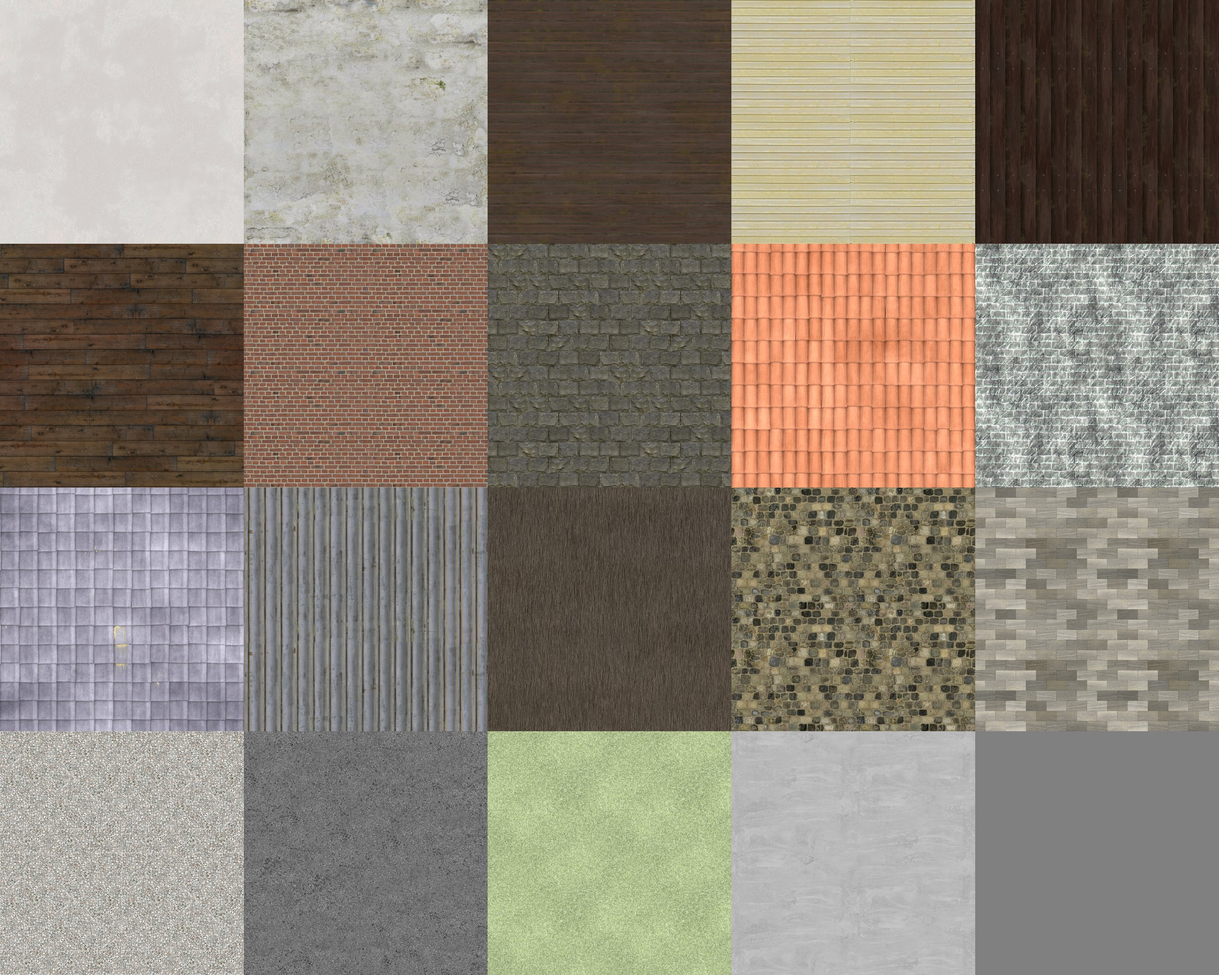
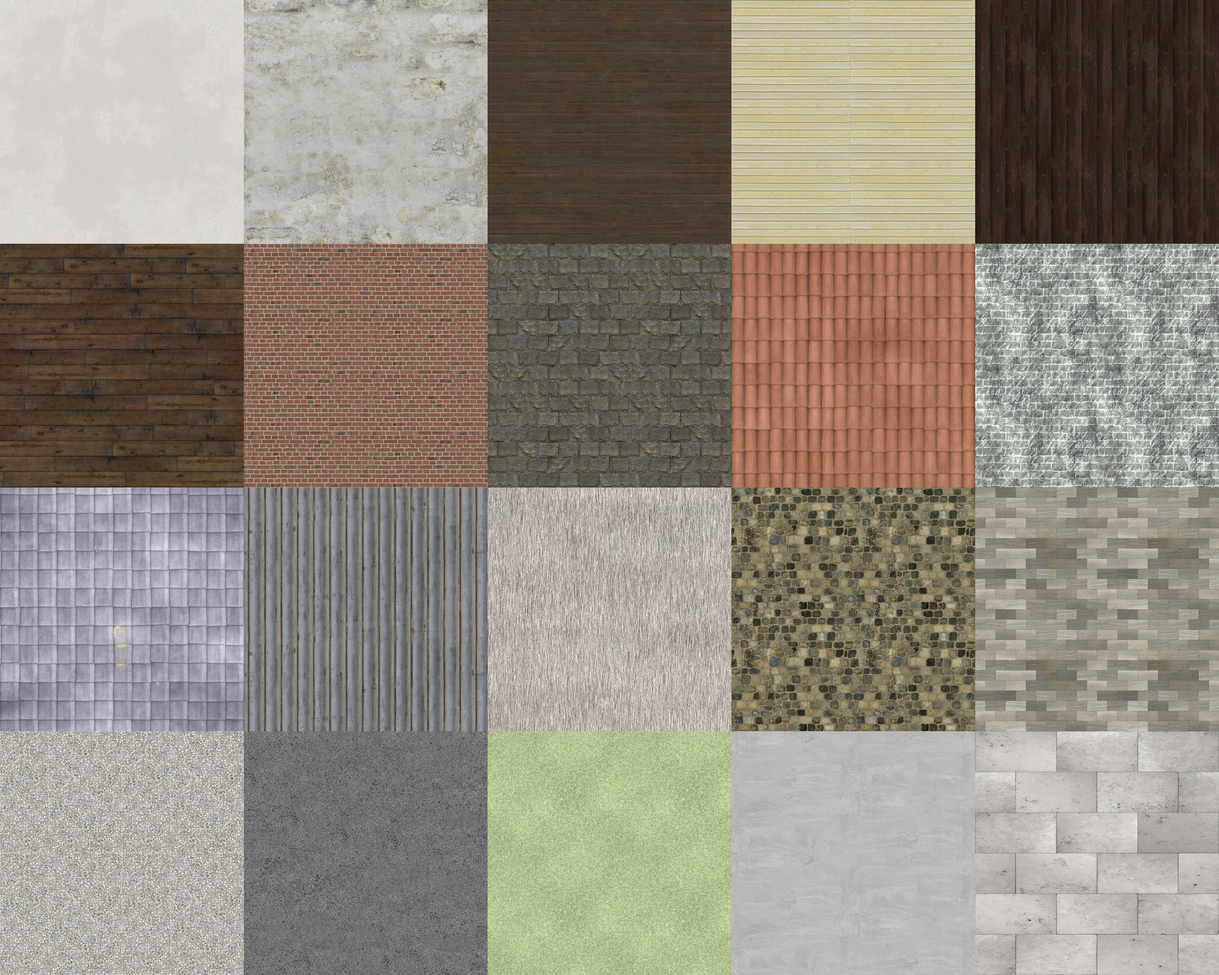
Town materials: pale thatch, terracotta clay tiles, a cut-stone (ashlar) tile in the 20th slot
The thatch photo is normalised to a pale grey so the straw tint decides its colour (it stayed near-black). The clay
tile is toned down from salmon to weathered terracotta. Slot 19: ambientCG Tiles139 (CC0), cropped and staggered
into 1 m x 0.5 m blocks in running bond, near white for per-building tints. The bake script takes per-material
options (lum, sat, crop, stagger); the other 17 tiles bake byte-identical to before.

Changed region(s): [[0.375, 0.25, 0.8125, 0.75], [0.7812, 0.75, 1.0, 1.0]]

diff --git a/tools/towns/bake_materials.py b/tools/towns/bake_materials.py
@@ -16,8 +16,12 @@ from PIL import Image, ImageChops, ImageStat
 SRC = sys.argv[1]
 OUT = os.path.join(os.path.dirname(__file__), '..', '..', 'tex', 'towns')
 T, COLS, ROWS = 512, 5, 4
-# (asset id, repeats across the 3 m tile, repeats down, rotate 90 deg[, mean luminance to normalise to: tinted
-# materials (roofs, lawn) are brought to a mid grey so the per-building tint colour decides the final colour)]
+# (asset id, repeats across the 3 m tile, repeats down, rotate 90 deg[, options]). Options:
+#   lum: mean luminance to normalise to. Tinted materials (roofs, thatch, lawn, cut stone) are brought to a mid or light
+#        grey so the per-building tint colour decides the final colour
+#   sat: keep only this fraction of the saturation
+#   crop: (x0, y0, x1, y1) of the 1K source to use (must tile on its own)
+#   stagger: (courses, blocks across): shift every other course half a block, so a grid of tiles lays as ashlar
 MATS = [
     ('Plaster001', 1, 1, False),        # 0 plaster (tinted per building)
     ('Plaster007', 1, 1, False),        # 1 rough stucco / adobe
@@ -27,17 +31,19 @@ MATS = [
     ('Planks037A', 1, 1, False),        # 5 dark timber
     ('Bricks085', 2, 4, False),         # 6 red brick
     ('Bricks076A', 2, 2, False),        # 7 rubble stone
-    ('RoofingTiles014A', 1, 1, False, 170),  # 8 clay tiles
-    ('RoofingTiles003', 2, 2, False, 165),   # 9 slate
-    ('RoofingTiles013A', 1, 1, False, 160),  # 10 dark concrete tiles
+    ('RoofingTiles014A', 1, 1, False, dict(lum=126, sat=0.85)),  # 8 clay tiles (weathered terracotta, not salmon)
+    ('RoofingTiles003', 2, 2, False, dict(lum=165)),   # 9 slate
+    ('RoofingTiles013A', 1, 1, False, dict(lum=160)),  # 10 dark concrete tiles
     ('CorrugatedSteel009', 1, 2, True), # 11 corrugated metal (vertical ribs)
-    ('ThatchedRoof001A', 1, 1, False),  # 12 thatch
+    ('ThatchedRoof001A', 1, 1, False, dict(lum=178, sat=0.3)),  # 12 thatch (pale grey: the straw tint decides)
     ('PavingStones142', 2, 2, False),   # 13 cobbles
     ('PavingStones128', 2, 2, False),   # 14 paving slabs
     ('Gravel023', 2, 2, False),         # 15 gravel
     ('Asphalt031', 1, 1, False),        # 16 asphalt
-    ('Grass005', 2, 2, False, 185, 0.35),    # 17 lawn (half grey: tinted with the terrain colour per plot)
+    ('Grass005', 2, 2, False, dict(lum=185, sat=0.35)),    # 17 lawn (half grey: tinted with the terrain colour per plot)
     ('Concrete034', 1, 2, False),       # 18 concrete
+    ('Tiles139', 1, 1, False, dict(crop=(0, 0, 512, 1024), stagger=(6, 3), lum=188, sat=0.12)),  # 19 cut stone: limestone /
+    # brownstone ashlar, 1 m x 0.5 m blocks in running bond (near white: tinted per building)
 ]
 
 def load(aid, kind):
@@ -59,19 +65,30 @@ def tile(im, rx, ry):
 
 os.makedirs(OUT, exist_ok=True)
 sheets = {k: Image.new(m, (COLS * T, ROWS * T), c) for k, m, c in (('c', 'RGB', (128, 128, 128)), ('n', 'RGB', (128, 128, 255)), ('r', 'L', 200))}
-for k, (aid, rx, ry, rot, *norm) in enumerate(MATS):
+def stagger(im, n, m):
+    """shift every other of n horizontal courses by half a block (m blocks across)"""
+    out = im.copy(); w, h = im.size; d = round(w / m / 2)
+    for j in range(1, n, 2):
+        y0, y1 = round(j * h / n), round((j + 1) * h / n); band = im.crop((0, y0, w, y1))
+        out.paste(band.crop((w - d, 0, w, y1 - y0)), (0, y0)); out.paste(band.crop((0, 0, w - d, y1 - y0)), (d, y0))
+    return out
+
+for k, (aid, rx, ry, rot, *o) in enumerate(MATS):
+    o = o[0] if o else {}
     col, nor, rough, ao = load(aid, 'Color').convert('RGB'), load(aid, 'NormalGL'), load(aid, 'Roughness'), load(aid, 'AmbientOcclusion')
+    if 'crop' in o: col, nor, rough, ao = (im.crop(o['crop']) if im is not None else None for im in (col, nor, rough, ao))
     if ao is not None: col = ImageChops.multiply(col, ao.convert('L').point(lambda v: int(255 * (v / 255) ** 0.6)).convert('RGB'))
-    if len(norm) > 1:  # keep only this fraction of the saturation
-        col = Image.blend(col.convert('L').convert('RGB'), col, norm[1])
-    if norm:
-        st = ImageStat.Stat(col.convert('L')); f = norm[0] / max(1, st.mean[0])
+    if 'sat' in o:  # keep only this fraction of the saturation
+        col = Image.blend(col.convert('L').convert('RGB'), col, o['sat'])
+    if 'lum' in o:
+        st = ImageStat.Stat(col.convert('L')); f = o['lum'] / max(1, st.mean[0])
         col = col.point(lambda v: min(255, int(v * f)))
     if rot: col, rough = col.rotate(90, expand=True), rough.rotate(90, expand=True) if rough else None; nor = rot_normal(nor)
+    tc, tn, tr = tile(col, rx, ry), tile(nor.convert('RGB'), rx, ry), tile(rough.convert('L'), rx, ry) if rough is not None else None
+    if 'stagger' in o: tc, tn, tr = (stagger(im, *o['stagger']) if im is not None else None for im in (tc, tn, tr))
     x, y = (k % COLS) * T, (k // COLS) * T
-    sheets['c'].paste(tile(col, rx, ry), (x, y))
-    sheets['n'].paste(tile(nor.convert('RGB'), rx, ry), (x, y))
-    if rough is not None: sheets['r'].paste(tile(rough.convert('L'), rx, ry), (x, y))
+    sheets['c'].paste(tc, (x, y)); sheets['n'].paste(tn, (x, y))
+    if tr is not None: sheets['r'].paste(tr, (x, y))
 sheets['c'].save(os.path.join(OUT, 'mat_color.jpg'), quality=86, optimize=True)
 sheets['n'].save(os.path.join(OUT, 'mat_normal.jpg'), quality=90, subsampling=0, optimize=True)
 sheets['r'].save(os.path.join(OUT, 'mat_rough.jpg'), quality=85, optimize=True)
